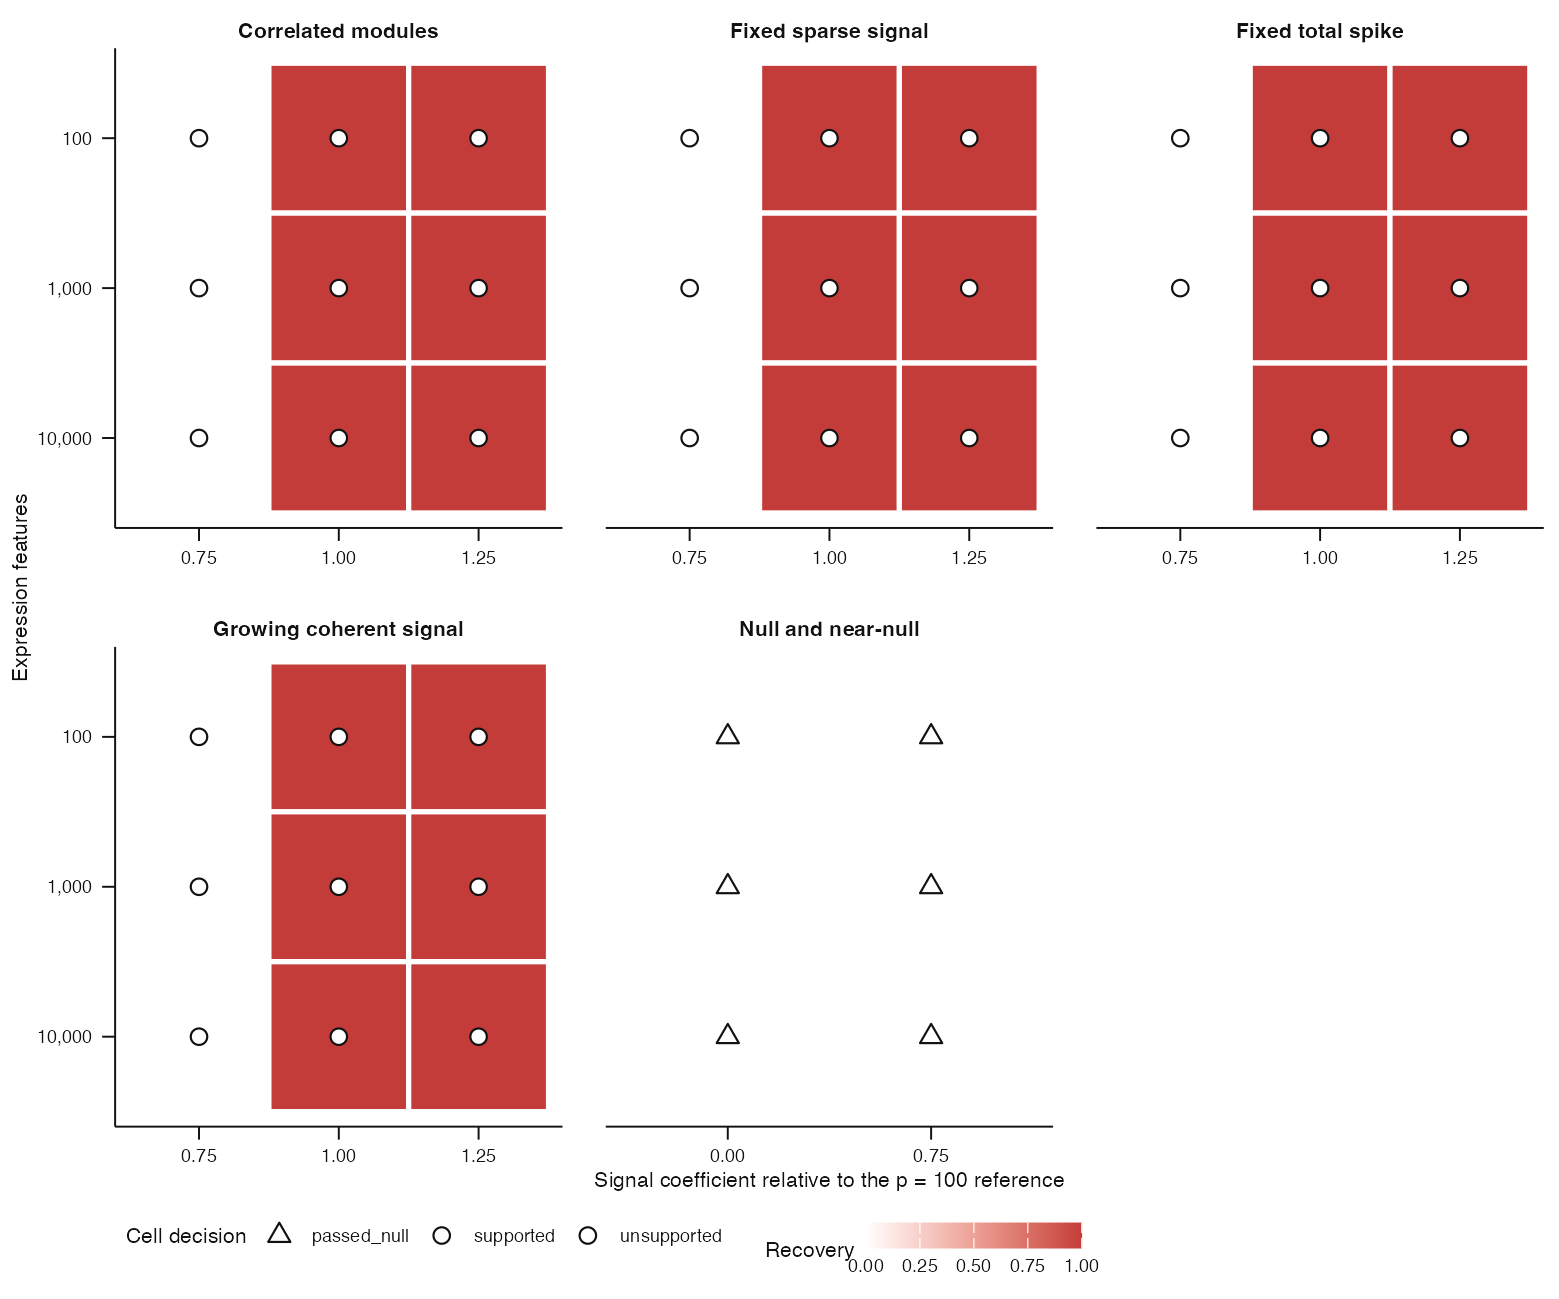
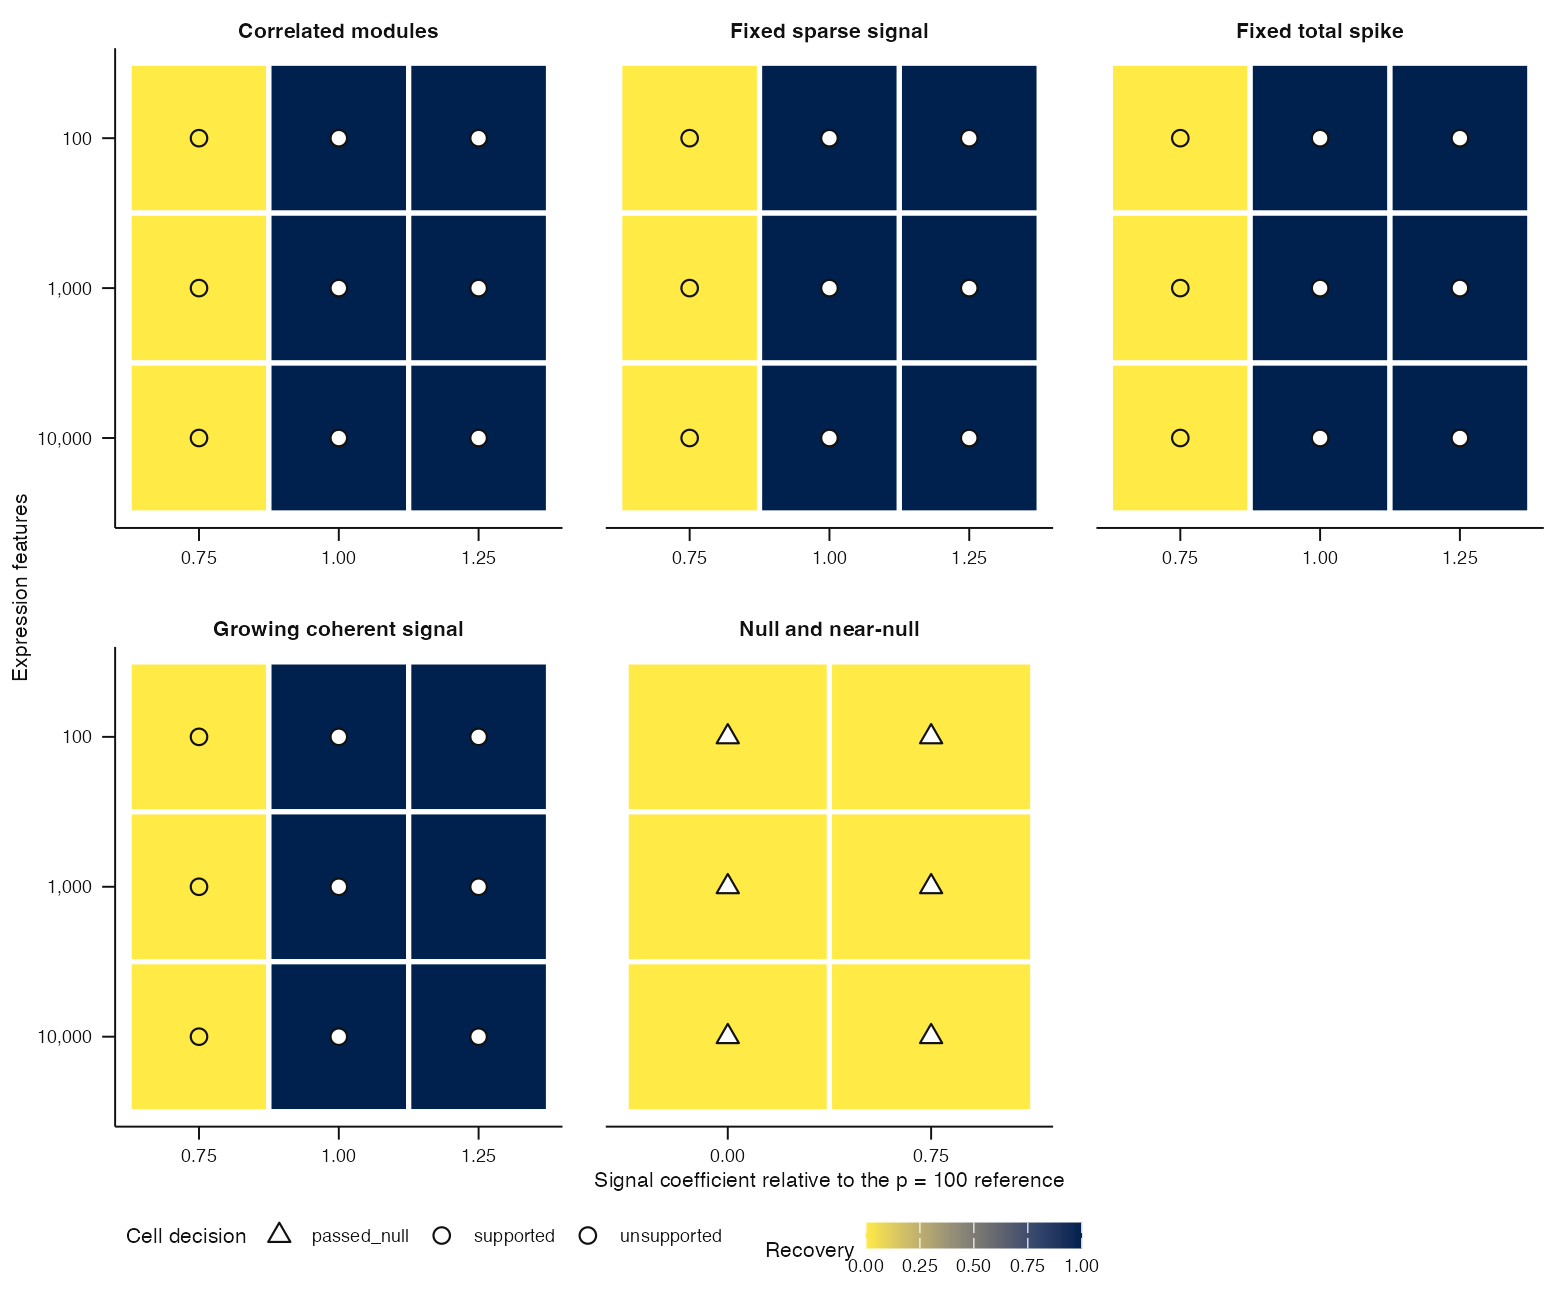
Apply continuous palette and resume issue 198 (#204)

diff --git a/ROADMAP.md b/ROADMAP.md
@@ -694,8 +694,8 @@ bodies may state dependencies but do not change this ordering.
 | [#191](https://github.com/drejom/landscapeR/issues/191) | K=1 high-dimensional signal regimes | complete on merge; then #193 |
 | [#192](https://github.com/drejom/landscapeR/issues/192) | K=1 real-experiment operating-domain locator | queued — blocked by #189–#191; does not block acceptance |
 | [#193](https://github.com/drejom/landscapeR/issues/193) | K=1 revised independent acceptance | active — next; v4 protocol merged, runner adaptation in progress, then independent HPC execution after runner merge |
-| [#198](https://github.com/drejom/landscapeR/issues/198) | Maintenance — shared K=1 calibration publication seams | queued before another calibration module; does not block #191 or #193 |
-| [#204](https://github.com/drejom/landscapeR/issues/204) | Maintenance — revised acceptance semantic palette | active stop-the-line correction; then resume #198 |
+| [#198](https://github.com/drejom/landscapeR/issues/198) | Maintenance — shared K=1 calibration publication seams | active next after #204; does not block #191 or #193 |
+| [#204](https://github.com/drejom/landscapeR/issues/204) | Maintenance — revised acceptance semantic palette | complete on merge; then resume #198 |
 <!-- issue-map:end -->
 
 ---

diff --git a/.github/landing-proof/issue-204/README.md b/.github/landing-proof/issue-204/README.md
@@ -17,9 +17,10 @@ thresholds, decisions, and fabricated proof data are unchanged.
 | ![Before signal map](before-signal-operating-map.png) | ![After signal map](after-signal-operating-map.png) |
 
 Cold-reader conclusion: both public views retain identical scientific
-encodings while using the canonical, package-owned red and neutral roles. The
-signal-map change is visible as the corrected focal-red gradient; the sampling
-map change is intentionally subtle.
+encodings while using package-owned semantic roles. The signal-map change is
+visible as the colour-vision-robust Cividis scale for continuous recovery; the
+sampling map uses focal red only for supported cells and is intentionally a
+subtler correction.
 
 Reproduce with `Rscript scripts/render-issue-204-proof.R before` on the parent
 revision and `Rscript scripts/render-issue-204-proof.R after` on this revision.
